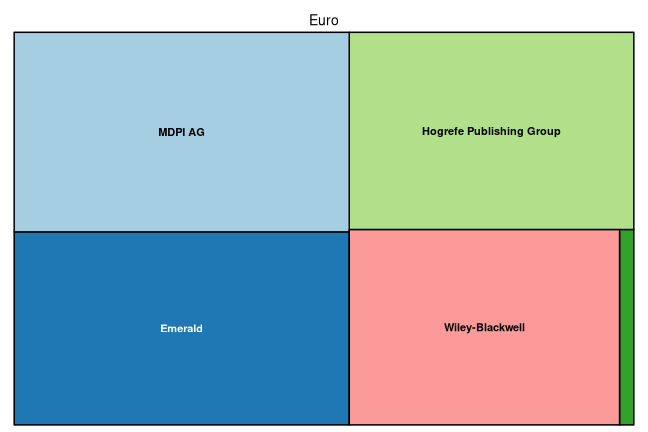
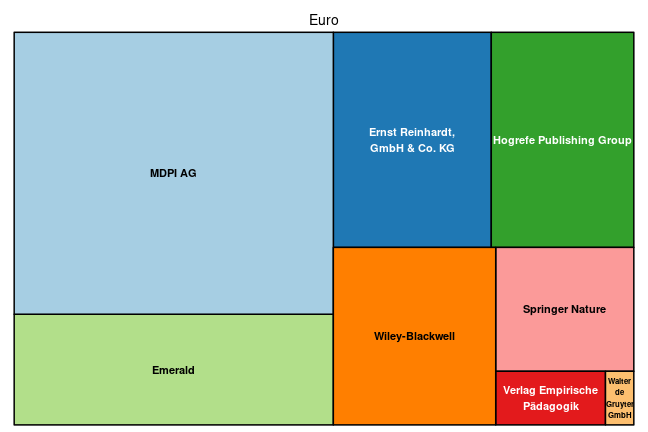
post: phzh apc+bpc 2022

diff --git a/_posts/2023-02-28-phzh.md b/_posts/2023-02-28-phzh.md
@@ -1,0 +1,65 @@
+---
+layout:     post
+author:     Julia Bartlewski
+author_lnk: https://github.com/jbartlewski
+title:      Pädagogische Hochschule Zürich reports its 2022 APC and BPC expenditures
+date:       2023-02-28 15:00:00
+summary:    
+categories: [general, openAPC]
+comments: true
+---
+
+
+
+
+The [Pädagogische Hochschule Zürich](https://phzh.ch/en/) (PHZH, Zurich University of Teacher Education) has provided both APC and BPC expenditures for the 2022 period.
+
+The [PHZH Library](https://phzh.ch/de/Dienstleistungen/Bibliothek/) collects data on institutional APC and BPC expenditures and kindly provides this data to OpenAPC.
+
+Contact Person is [Jan Steiner](mailto:jan.steiner@phzh.ch).
+
+
+## Cost data
+
+
+
+The new data set covers publication fees for 7 articles and 6 books. Total expenditure for articles amounts to 9,005€ and the average APC is 1,286€, while the total expenditures for books is 45,913€ with an average BPC of 7,652€.
+
+The following tables and plots provide an overview of the payments PHZH Library has made to publishers in 2022.
+
+## Articles
+
+
+|                               | Articles| Fees paid in EURO| Mean Fee paid|
+|:------------------------------|--------:|-----------------:|-------------:|
+|Ernst Reinhardt, GmbH & Co. KG |        3|              2770|           923|
+|MDPI AG                        |        2|              4360|          2180|
+|Springer Nature                |        1|              1395|          1395|
+|Verlag Empirische Pädagogik    |        1|               480|           480|
+
+### Fees paid per publisher (in EURO)
+
+![plot of chunk tree_phzh_2023_02_28_apc_full](/figure/tree_phzh_2023_02_28_apc_full-1.png)
+
+###  Average costs per publisher (in EURO)
+
+![plot of chunk box_phzh_2023_02_28_apc_publisher_full](/figure/box_phzh_2023_02_28_apc_publisher_full-1.png)
+
+## Books
+
+
+|               | Articles| Fees paid in EURO| Mean Fee paid|
+|:--------------|--------:|-----------------:|-------------:|
+|Beltz          |        3|             14010|          4670|
+|hep Verlag     |        1|             12000|         12000|
+|Kohlhammer     |        1|             15500|         15500|
+|Waxmann Verlag |        1|              4403|          4403|
+
+### Fees paid per publisher (in EURO)
+
+![plot of chunk tree_phzh_2023_02_28_bpc_full](/figure/tree_phzh_2023_02_28_bpc_full-1.png)
+
+###  Average costs per publisher (in EURO)
+
+![plot of chunk box_phzh_2023_02_28_bpc_publisher_full](/figure/box_phzh_2023_02_28_bpc_publisher_full-1.png)
+
